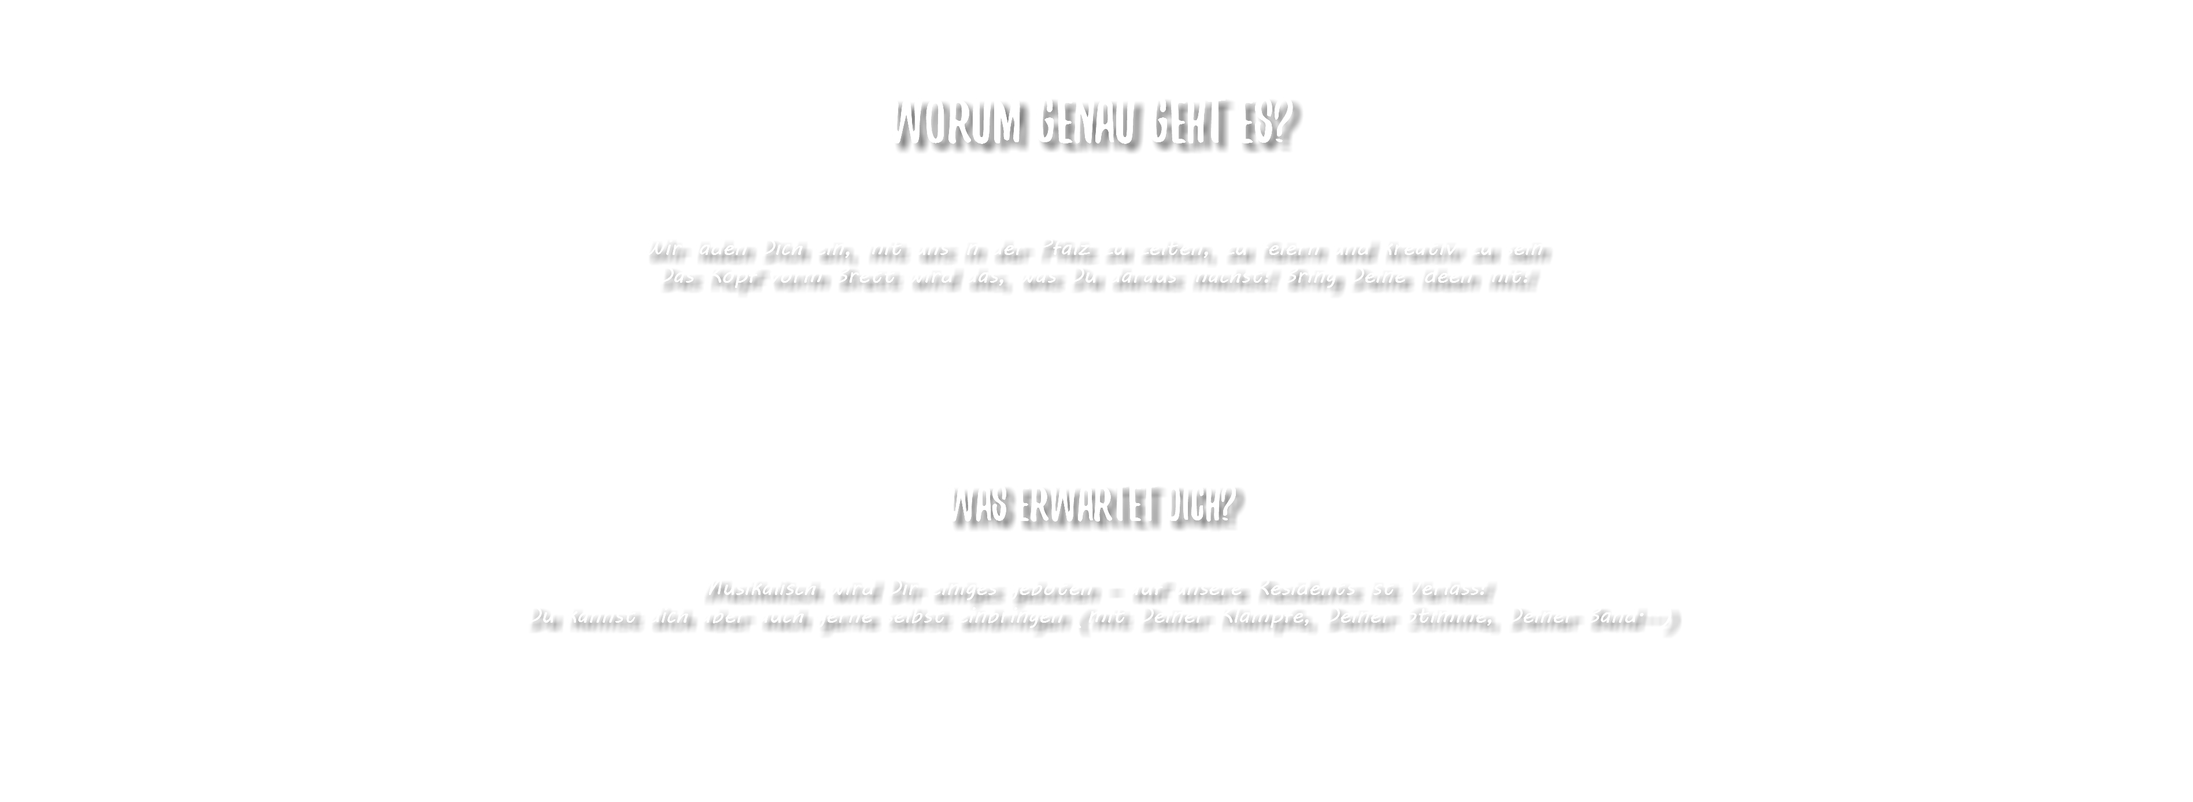
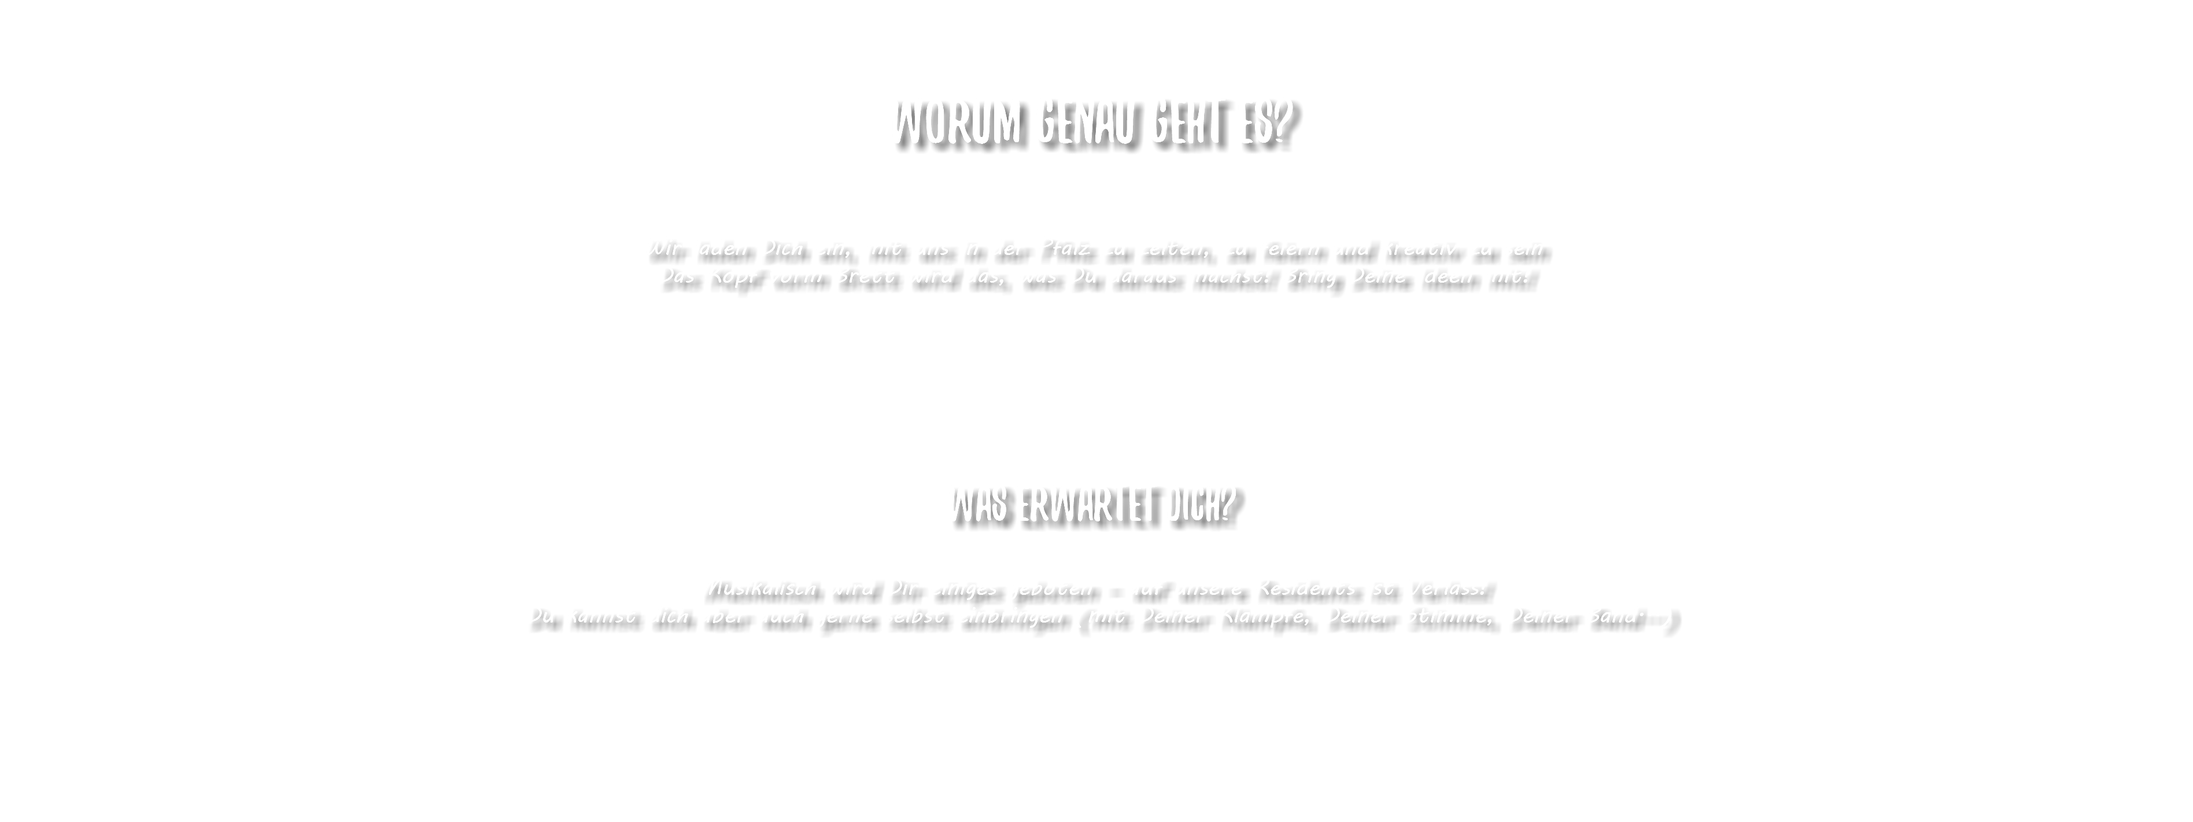
dsa
dsa

diff --git a/css/index.css b/css/index.css
@@ -1,1 +1,1 @@
-.version.index{color:#0000E3;background-color:#F7DBE0;}#page{min-height:8172px;border-width:0px;padding-bottom:1px;border-color:#000000;background-color:transparent;margin-right:auto;z-index:1;background-image:none;margin-left:auto;}#pu815{margin-right:-10000px;width:0.01px;z-index:6;height:0px;}#u815{z-index:6;position:fixed;width:1890px;background-color:transparent;top:3653px;}#u102{min-height:3004px;border-width:0px;border-color:transparent;position:fixed;width:1890px;z-index:8;background-color:transparent;}#u825{z-index:10;position:fixed;width:1890px;background-color:transparent;top:3601px;}#u353{min-height:598px;border-width:0px;border-color:transparent;top:3760px;position:fixed;width:1890px;z-index:12;background-color:transparent;}#u792{top:4217px;padding-bottom:24px;border-color:transparent;background-color:transparent;position:fixed;width:178px;border-width:0px;z-index:13;}#u765{left:107px;-webkit-transform:matrix(0.9613,0.2756,-0.2756,0.9613,8,-8);transform:matrix(0.9613,0.2756,-0.2756,0.9613,8,-8);margin-top:8px;position:relative;margin-right:-10000px;width:65px;z-index:14;-ms-transform:matrix(0.9613,0.2756,-0.2756,0.9613,8,-8);}#u775{left:62px;-webkit-transform:matrix(0.9613,0.2756,-0.2756,0.9613,14,-14);transform:matrix(0.9613,0.2756,-0.2756,0.9613,14,-14);margin-top:29px;position:relative;margin-right:-10000px;width:112px;z-index:16;-ms-transform:matrix(0.9613,0.2756,-0.2756,0.9613,14,-14);}#u782{left:16px;-webkit-transform:matrix(0.8746,0.4848,-0.4848,0.8746,36,-29);transform:matrix(0.8746,0.4848,-0.4848,0.8746,36,-29);margin-top:72px;position:relative;margin-right:-10000px;width:149px;z-index:18;-ms-transform:matrix(0.8746,0.4848,-0.4848,0.8746,36,-29);}#u441{min-height:242px;border-width:0px;border-color:transparent;top:4863px;position:fixed;width:800px;z-index:24;background-color:transparent;}#u571{display:block;z-index:104;position:fixed;top:4871px;vertical-align:top;}#u590{display:block;z-index:106;position:fixed;top:4871px;vertical-align:top;}#ppu287{margin-right:-10000px;width:0.01px;z-index:0;}#pu287{width:0.01px;z-index:9;}#u287{background-color:#000000;position:relative;margin-right:-10000px;width:1px;z-index:9;height:2041px;}#u106{margin-right:-10000px;width:1890px;background-color:transparent;z-index:20;position:relative;}#u324{background-color:transparent;position:relative;margin-right:-10000px;width:1890px;z-index:22;box-shadow:6px 6px 8px rgba(0,0,0,0.5);}#pu357{width:0.01px;z-index:25;}#u357{z-index:25;margin-top:23px;position:relative;margin-right:-10000px;background-color:transparent;}#u393-20{display:block;position:relative;margin-right:-10000px;vertical-align:top;z-index:27;}#pu872{width:0.01px;z-index:4;}#u872{z-index:4;margin-top:1446px;position:relative;margin-right:-10000px;width:1890px;background-color:transparent;}#u872_img{margin-top:-471px;margin-bottom:-380px;}#u478{background-color:transparent;position:relative;margin-right:-10000px;width:1890px;z-index:47;box-shadow:6px 6px 8px rgba(0,0,0,0.5);}#u493-21{display:block;margin-top:108px;position:relative;margin-right:-10000px;vertical-align:top;z-index:49;}#u496-26{display:block;margin-top:591px;position:relative;margin-right:-10000px;vertical-align:top;z-index:70;}#u499{-webkit-transform:matrix(0.9903,0.1392,-0.1392,0.9903,20,-15);transform:matrix(0.9903,0.1392,-0.1392,0.9903,20,-15);margin-top:1044px;position:relative;margin-right:-10000px;width:229px;z-index:96;-ms-transform:matrix(0.9903,0.1392,-0.1392,0.9903,20,-15);}#u521{-webkit-transform:matrix(0.9903,-0.1392,0.1392,0.9903,-18,21);transform:matrix(0.9903,-0.1392,0.1392,0.9903,-18,21);margin-top:1165px;position:relative;margin-right:-10000px;width:287px;z-index:98;-ms-transform:matrix(0.9903,-0.1392,0.1392,0.9903,-18,21);}#u543{-webkit-transform:matrix(0.9945,0.1045,-0.1045,0.9945,33,-52);transform:matrix(0.9945,0.1045,-0.1045,0.9945,33,-52);margin-top:1149px;position:relative;margin-right:-10000px;width:1030px;z-index:100;-ms-transform:matrix(0.9945,0.1045,-0.1045,0.9945,33,-52);}#u557{-webkit-transform:matrix(0.9986,-0.0523,0.0523,0.9986,-15,27);transform:matrix(0.9986,-0.0523,0.0523,0.9986,-15,27);margin-top:1407px;position:relative;margin-right:-10000px;width:1029px;z-index:102;-ms-transform:matrix(0.9986,-0.0523,0.0523,0.9986,-15,27);}#u765_img,#u775_img,#u782_img,#u499_img,#u521_img,#u543_img,#u557_img{vertical-align:top;display:block;}.js #u441.ose_pre_init,.js #u571.ose_pre_init,.js #u590.ose_pre_init,.js #u499.ose_pre_init,.js #u521.ose_pre_init,.js #u543.ose_pre_init,.js #u557.ose_pre_init{opacity:0;-ms-filter:"progid:DXImageTransform.Microsoft.Alpha(Opacity=0)";filter:alpha(opacity=0);}#u638{z-index:108;margin-top:1947px;position:relative;margin-right:-10000px;width:1890px;background-color:transparent;}#u638 img.shadow{box-shadow:6px 6px 8px rgba(0,0,0,0.5);}#u638_img{margin-top:30px;margin-bottom:-1px;}#u731-62{display:block;margin-top:2009px;position:relative;margin-right:-10000px;vertical-align:top;z-index:110;}.css_verticalspacer .verticalspacer{height:calc(100vh - 8645px);}#pu907{margin-right:-10000px;width:0.01px;z-index:2;margin-top:-59px;}#u907{background-color:transparent;position:relative;margin-right:-10000px;width:1890px;z-index:2;box-shadow:6px 6px 8px rgba(0,0,0,0.5);}#u926{background-color:transparent;position:relative;margin-right:-10000px;width:1890px;z-index:172;box-shadow:6px 6px 8px rgba(0,0,0,0.5);}.html{background-color:#000000;}body{position:relative;}.verticalspacer{min-height:1px;}@media (min-width: 1891px), print{#muse_css_mq{background-color:#FFFFFF;}#bp_infinity.active{display:block;}#pu815{padding-bottom:7758px;margin-top:-1271px;}#u102{top:-1271px;left:0px;}#u815,#u825,#u353{left:0px;}#u792{left:1659px;}#u441{left:555px;}#u571{left:339px;}#u590{left:1371px;}#ppu287{margin-top:1123px;}#u287{margin-top:192px;left:5px;}#u324{margin-top:2478px;}#pu357{margin-top:441px;}#page,#u357{width:1890px;}#u393-20{margin-bottom:-6px;}#pu872{margin-top:289px;}#u499{left:1239px;}#u521{left:500px;}#u543{left:684px;}#u557{left:277px;}body{min-width:1890px;}}@media (max-width: 1890px){#muse_css_mq{background-color:#000762;}#bp_1890.active{display:block;}#page{width:1420px;}#pu815{padding-bottom:7761px;margin-top:-1274px;}#u102{top:-1274px;left:-220px;}#u815,#u825,#u353{left:-220px;}#u792{left:1434px;}#u441{left:330px;}#u571{left:114px;}#u590{left:1146px;}#ppu287{padding-bottom:0px;margin-top:1120px;margin-left:-220px;}#u287{margin-top:195px;}#u324{margin-top:2481px;}#pu357{margin-top:442px;}#u357{width:1900px;}#u393-20{margin-bottom:-2px;}#pu872{margin-top:284px;}#u499{left:1234px;}#u521{left:495px;}#u543{left:679px;}#u557{left:272px;}#pu907{margin-left:-220px;}body{overflow-x:hidden;min-width:1420px;}}
+.version.index{color:#00001B;background-color:#F4F3CB;}#page{min-height:8172px;border-width:0px;padding-bottom:1px;border-color:#000000;background-color:transparent;margin-right:auto;z-index:1;background-image:none;margin-left:auto;}#pu815{margin-right:-10000px;width:0.01px;z-index:6;height:0px;}#u815{z-index:6;position:fixed;width:1890px;background-color:transparent;top:3653px;}#u102{min-height:3004px;border-width:0px;border-color:transparent;position:fixed;width:1890px;z-index:8;background-color:transparent;}#u825{z-index:10;position:fixed;width:1890px;background-color:transparent;top:3601px;}#u353{min-height:598px;border-width:0px;border-color:transparent;top:3760px;position:fixed;width:1890px;z-index:12;background-color:transparent;}#u792{top:4217px;padding-bottom:24px;border-color:transparent;background-color:transparent;position:fixed;width:178px;border-width:0px;z-index:13;}#u765{left:107px;-webkit-transform:matrix(0.9613,0.2756,-0.2756,0.9613,8,-8);transform:matrix(0.9613,0.2756,-0.2756,0.9613,8,-8);margin-top:8px;position:relative;margin-right:-10000px;width:65px;z-index:14;-ms-transform:matrix(0.9613,0.2756,-0.2756,0.9613,8,-8);}#u775{left:62px;-webkit-transform:matrix(0.9613,0.2756,-0.2756,0.9613,14,-14);transform:matrix(0.9613,0.2756,-0.2756,0.9613,14,-14);margin-top:29px;position:relative;margin-right:-10000px;width:112px;z-index:16;-ms-transform:matrix(0.9613,0.2756,-0.2756,0.9613,14,-14);}#u782{left:16px;-webkit-transform:matrix(0.8746,0.4848,-0.4848,0.8746,36,-29);transform:matrix(0.8746,0.4848,-0.4848,0.8746,36,-29);margin-top:72px;position:relative;margin-right:-10000px;width:149px;z-index:18;-ms-transform:matrix(0.8746,0.4848,-0.4848,0.8746,36,-29);}#u441{min-height:242px;border-width:0px;border-color:transparent;top:4863px;position:fixed;width:800px;z-index:24;background-color:transparent;}#u571{display:block;z-index:104;position:fixed;top:4871px;vertical-align:top;}#u590{display:block;z-index:106;position:fixed;top:4871px;vertical-align:top;}#ppu287{margin-right:-10000px;width:0.01px;padding-bottom:0px;z-index:0;}#pu287{width:0.01px;z-index:9;}#u287{background-color:#000000;position:relative;margin-right:-10000px;width:1px;z-index:9;height:2041px;}#u106{margin-right:-10000px;width:1890px;background-color:transparent;z-index:20;position:relative;}#u324{z-index:22;position:relative;margin-right:-10000px;width:1890px;background-color:transparent;}#pu357{width:0.01px;z-index:25;}#u357{z-index:25;margin-top:23px;position:relative;margin-right:-10000px;background-color:transparent;}#u393-20{display:block;position:relative;margin-right:-10000px;vertical-align:top;z-index:27;}#pu872{width:0.01px;z-index:4;}#u872{z-index:4;position:relative;margin-right:-10000px;width:1890px;background-color:transparent;}#u872_img{margin-top:-471px;margin-bottom:-380px;}#u478{background-color:transparent;position:relative;margin-right:-10000px;width:1890px;z-index:47;box-shadow:6px 6px 8px rgba(0,0,0,0.5);}#u493-21{display:block;position:relative;margin-right:-10000px;vertical-align:top;z-index:49;}#u496-26{display:block;position:relative;margin-right:-10000px;vertical-align:top;z-index:70;}#u499{-webkit-transform:matrix(0.9903,0.1392,-0.1392,0.9903,20,-15);transform:matrix(0.9903,0.1392,-0.1392,0.9903,20,-15);position:relative;margin-right:-10000px;width:229px;z-index:96;-ms-transform:matrix(0.9903,0.1392,-0.1392,0.9903,20,-15);}#u521{-webkit-transform:matrix(0.9903,-0.1392,0.1392,0.9903,-18,21);transform:matrix(0.9903,-0.1392,0.1392,0.9903,-18,21);position:relative;margin-right:-10000px;width:287px;z-index:98;-ms-transform:matrix(0.9903,-0.1392,0.1392,0.9903,-18,21);}#u543{-webkit-transform:matrix(0.9945,0.1045,-0.1045,0.9945,33,-52);transform:matrix(0.9945,0.1045,-0.1045,0.9945,33,-52);position:relative;margin-right:-10000px;width:1030px;z-index:100;-ms-transform:matrix(0.9945,0.1045,-0.1045,0.9945,33,-52);}#u557{-webkit-transform:matrix(0.9986,-0.0523,0.0523,0.9986,-15,27);transform:matrix(0.9986,-0.0523,0.0523,0.9986,-15,27);position:relative;margin-right:-10000px;width:1029px;z-index:102;-ms-transform:matrix(0.9986,-0.0523,0.0523,0.9986,-15,27);}#u765_img,#u775_img,#u782_img,#u499_img,#u521_img,#u543_img,#u557_img{vertical-align:top;display:block;}.js #u441.ose_pre_init,.js #u571.ose_pre_init,.js #u590.ose_pre_init,.js #u499.ose_pre_init,.js #u521.ose_pre_init,.js #u543.ose_pre_init,.js #u557.ose_pre_init{opacity:0;-ms-filter:"progid:DXImageTransform.Microsoft.Alpha(Opacity=0)";filter:alpha(opacity=0);}#u638{z-index:108;position:relative;margin-right:-10000px;width:1890px;background-color:transparent;}#u638 img.shadow{box-shadow:6px 6px 8px rgba(0,0,0,0.5);}#u638_img{margin-top:30px;margin-bottom:-1px;}#u731-62{display:block;position:relative;margin-right:-10000px;vertical-align:top;z-index:110;}.css_verticalspacer .verticalspacer{height:calc(100vh - 8645px);}#pu907{margin-right:-10000px;width:0.01px;z-index:2;margin-top:-59px;}#u907{background-color:transparent;position:relative;margin-right:-10000px;width:1890px;z-index:2;box-shadow:6px 6px 8px rgba(0,0,0,0.5);}#u926{background-color:transparent;position:relative;margin-right:-10000px;width:1890px;z-index:172;box-shadow:6px 6px 8px rgba(0,0,0,0.5);}.html{background-color:#000000;}body{position:relative;}.verticalspacer{min-height:1px;}@media (min-width: 1891px), print{#muse_css_mq{background-color:#FFFFFF;}#bp_infinity.active{display:block;}#pu815{padding-bottom:7758px;margin-top:-1271px;}#u102{top:-1271px;left:0px;}#u815,#u825,#u353{left:0px;}#u792{left:1659px;}#u441{left:555px;}#u571{left:339px;}#u590{left:1371px;}#ppu287{margin-top:1123px;}#u287{margin-top:192px;left:5px;}#u324{margin-top:2478px;}#u324 img.shadow{box-shadow:6px 6px 8px rgba(0,0,0,0.5);}#u324_img{margin-bottom:74px;}#pu357{margin-top:345px;}#page,#u357{width:1890px;}#u393-20{margin-bottom:-6px;}#pu872{margin-top:248px;}#u872{margin-top:1468px;}#u493-21{margin-top:130px;}#u496-26{margin-top:613px;}#u499{margin-top:1066px;left:1239px;}#u521{margin-top:1187px;left:500px;}#u543{margin-top:1171px;left:684px;}#u557{margin-top:1429px;left:277px;}#u638{margin-top:1969px;}#u731-62{margin-top:2031px;}body{min-width:1890px;}}@media (max-width: 1890px){#muse_css_mq{background-color:#000762;}#bp_1890.active{display:block;}#page{width:1420px;}#pu815{padding-bottom:7761px;margin-top:-1274px;}#u102{top:-1274px;left:-220px;}#u815,#u825,#u353{left:-220px;}#u792{left:1434px;}#u441{left:330px;}#u571{left:114px;}#u590{left:1146px;}#ppu287{margin-top:1120px;margin-left:-220px;}#u287{margin-top:195px;}#u324{box-shadow:6px 6px 8px rgba(0,0,0,0.5);margin-top:2481px;}#pu357{margin-top:442px;}#u357{width:1900px;}#u393-20{margin-bottom:-2px;}#pu872{margin-top:284px;}#u872{margin-top:1446px;}#u493-21{margin-top:108px;}#u496-26{margin-top:591px;}#u499{margin-top:1044px;left:1234px;}#u521{margin-top:1165px;left:495px;}#u543{margin-top:1149px;left:679px;}#u557{margin-top:1407px;left:272px;}#u638{margin-top:1947px;}#u731-62{margin-top:2009px;}#pu907{margin-left:-220px;}body{overflow-x:hidden;min-width:1420px;}}

diff --git a/index.html b/index.html
@@ -17,10 +17,10 @@ if(typeof Muse == "undefined") window.Muse = {}; window.Muse.assets = {"required
   <title>Homepage</title>
   <!-- CSS -->
   <link rel="stylesheet" type="text/css" href="css/site_global.css?crc=444006867"/>
-  <link rel="stylesheet" type="text/css" href="css/index.css?crc=3824671712" id="pagesheet"/>
+  <link rel="stylesheet" type="text/css" href="css/index.css?crc=469038027" id="pagesheet"/>
   <!-- IE-only CSS -->
   <!--[if lt IE 9]>
-  <link rel="stylesheet" type="text/css" href="css/nomq_index.css?crc=3972777190" id="nomq_pagesheet"/>
+  <link rel="stylesheet" type="text/css" href="css/nomq_index.css?crc=414818516" id="nomq_pagesheet"/>
   <![endif]-->
    </head>
  <body>
@@ -58,27 +58,27 @@ if(typeof Muse == "undefined") window.Muse = {}; window.Muse.assets = {"required
      <img class="mse_pre_init ose_pre_init temp_no_img_src" id="u590" alt="" width="206" height="291" data-orig-src="images/r5_300dpi2-u590.png?crc=3911401174" data-hidpi-src="images/r5_300dpi2-u590_2x.png?crc=526168891" src="images/blank.gif?crc=4208392903"/><!-- rasterized frame -->
     </div>
     <div class="clearfix grpelem" id="ppu287"><!-- column -->
-     <div class="clearfix colelem shared_content" id="pu287" data-content-guid="pu287_content"><!-- group -->
-      <div class="grpelem" id="u287"><!-- simple frame --></div>
-      <div class="clip_frame grpelem" id="u106"><!-- image -->
+     <div class="clearfix colelem" id="pu287"><!-- group -->
+      <div class="grpelem shared_content" id="u287" data-content-guid="u287_content"><!-- simple frame --></div>
+      <div class="clip_frame grpelem shared_content" id="u106" data-content-guid="u106_content"><!-- image -->
        <img class="block temp_no_img_src" id="u106_img" data-orig-src="images/bretter_together_muse_oben.png?crc=53165442" alt="" width="1890" height="2490" src="images/blank.gif?crc=4208392903"/>
       </div>
-      <div class="shadow clip_frame grpelem" id="u324"><!-- image -->
-       <img class="block temp_no_img_src" id="u324_img" data-orig-src="images/kvb_sschwarz_unten2.jpg?crc=3931746478" alt="" width="1890" height="138" src="images/blank.gif?crc=4208392903"/>
+      <div class="shadow clearfix grpelem" id="u324"><!-- image -->
+       <img class="shadow position_content temp_no_img_src" id="u324_img" data-orig-src="images/kvb_sschwarz_unten2.jpg?crc=3931746478" alt="" width="1890" height="160" src="images/blank.gif?crc=4208392903"/>
       </div>
      </div>
      <div class="clearfix colelem" id="pu357"><!-- group -->
       <div class="clip_frame grpelem" id="u357"><!-- image -->
        <img class="block temp_no_img_src" id="u357_img" data-orig-src="images/kvb_sschwarz_unten3-crop-u357.png?crc=201152101" alt="" width="1890" height="665" src="images/blank.gif?crc=4208392903"/>
       </div>
-      <img class="grpelem temp_no_img_src" id="u393-20" alt="&nbsp;Worum genau geht es? Wir laden Dich ein, mit uns in der Pfalz zu zelten, zu feiern und kreativ zu sein Das Kopf vorm Brett wird das, was Du daraus machst! Bring Deine Ideen mit! Was erwartet Dich? Musikalisch wird Dir einiges geboten – auf unsere Residents ist Verlass! Du kannst dich aber auch gerne selbst einbringen (mit Deiner Klampfe, Deiner Stimme, Deiner Band...) " width="1896" height="693" data-orig-src="images/u393-20.png?crc=200293073" data-hidpi-src="images/u393-20_2x.png?crc=3781974559" src="images/blank.gif?crc=4208392903"/><!-- rasterized frame -->
+      <img class="grpelem temp_no_img_src" id="u393-20" alt="&nbsp;Worum genau geht es? Wir laden Dich ein, mit uns in der Pfalz zu zelten, zu feiern und kreativ zu sein Das Kopf vorm Brett wird das, was Du daraus machst! Bring Deine Ideen mit! Was erwartet Dich? Musikalisch wird Dir einiges geboten – auf unsere Residents ist Verlass! Du kannst dich aber auch gerne selbst einbringen (mit Deiner Klampfe, Deiner Stimme, Deiner Band...) " width="1896" height="711" data-orig-src="images/u393-20.png?crc=3864693295" data-hidpi-src="images/u393-20_2x.png?crc=4252916231" src="images/blank.gif?crc=4208392903"/><!-- rasterized frame -->
      </div>
      <div class="clearfix colelem" id="pu872"><!-- group -->
       <div class="clip_frame clearfix grpelem shared_content" id="u872" data-content-guid="u872_content"><!-- image -->
        <img class="position_content temp_no_img_src" id="u872_img" data-orig-src="images/dream_h7xcsvmmx7m.jpg?crc=4286759864" alt="" width="1890" height="2834" src="images/blank.gif?crc=4208392903"/>
       </div>
       <div class="shadow clip_frame grpelem" id="u478"><!-- image -->
-       <img class="block temp_no_img_src" id="u478_img" data-orig-src="images/kvb_sschwarz_unten3-crop-u478.png?crc=3859000677" alt="" width="1890" height="1695" src="images/blank.gif?crc=4208392903"/>
+       <img class="block temp_no_img_src" id="u478_img" data-orig-src="images/kvb_sschwarz_unten3-crop-u478.png?crc=4176792411" alt="" width="1890" height="1718" src="images/blank.gif?crc=4208392903"/>
       </div>
       <img class="grpelem temp_no_img_src" id="u493-21" alt="Ausserdem wird einiges an Baumaterial vorhanden sein, das wir im Vorfeld fleissig gesammelt haben Wir werden zusammen eine Gemeinschaftsküche, Toiletten und Duschen bauen Dich erwartet eine Grundausstattung an Infrastruktur: Eine Musikanlage, eine Bühne, eine Strom- und Wasserversorgung und eine Kühlgelegenheit für Getränke Wir kochen jeden Tag für alle eine vegetarische Mahlzeit und es wird täglich ein grosses Frühstück geben Das Essen ist im Teilnehmerbeitrag mit inbegriffen! Für die Fleischesser kooperieren wir mit einem lokalen Metzger von wir Fleisch- und Wurstwaren zum Selbstkostenpreis anbieten Du kannst bei uns (ebenfalls zum Selbstkostenpreis) Bier, Wein und Limo erwerben Schnaps haben wir leider nicht. Tee, Kaffee und Wasser sind im Teilnehmerbeitrag enthalten" width="1890" height="387" data-orig-src="images/u493-21.png?crc=4121840378" data-hidpi-src="images/u493-21_2x.png?crc=4017368820" src="images/blank.gif?crc=4208392903"/><!-- rasterized frame -->
       <img class="grpelem temp_no_img_src" id="u496-26" alt="Ist das Kopf vorm Brett ein Festival? Das Kopf vorm Brett ist in erster Linie das, was DU daraus machst! Bring Dich ein und gestalte mit uns das Kopf vorm Brett! Was muss ich zuhause lassen? Schlechte Laune Haustiere Camping-Kocher Individual-Lautsprecher" width="1890" height="1085" data-orig-src="images/u496-26.png?crc=3923874967" data-hidpi-src="images/u496-26_2x.png?crc=299621675" src="images/blank.gif?crc=4208392903"/><!-- rasterized frame -->
@@ -134,7 +134,13 @@ if(typeof Muse == "undefined") window.Muse = {}; window.Muse.assets = {"required
      <img class="mse_pre_init ose_pre_init temp_no_id temp_no_img_src" alt="" width="206" height="291" data-orig-src="images/r5_300dpi2-u5902.png?crc=3911401174" data-hidpi-src="images/r5_300dpi2-u590_2x2.png?crc=526168891" data-orig-id="u590" src="images/blank.gif?crc=4208392903"/><!-- rasterized frame -->
     </div>
     <div class="clearfix grpelem temp_no_id" data-orig-id="ppu287"><!-- column -->
-     <span class="clearfix colelem placeholder" data-placeholder-for="pu287_content"><!-- placeholder node --></span>
+     <div class="clearfix colelem temp_no_id" data-orig-id="pu287"><!-- group -->
+      <span class="grpelem placeholder" data-placeholder-for="u287_content"><!-- placeholder node --></span>
+      <span class="clip_frame grpelem placeholder" data-placeholder-for="u106_content"><!-- placeholder node --></span>
+      <div class="shadow clip_frame grpelem temp_no_id" data-orig-id="u324"><!-- image -->
+       <img class="block temp_no_id temp_no_img_src" data-orig-src="images/kvb_sschwarz_unten2.jpg?crc=3931746478" alt="" width="1890" height="138" data-orig-id="u324_img" src="images/blank.gif?crc=4208392903"/>
+      </div>
+     </div>
      <div class="clearfix colelem temp_no_id" data-orig-id="pu357"><!-- group -->
       <div class="clip_frame grpelem temp_no_id" data-orig-id="u357"><!-- image -->
        <img class="block temp_no_id temp_no_img_src" data-orig-src="images/kvb_sschwarz_unten3-crop-u3572.png?crc=4089583458" alt="" width="1901" height="668" data-orig-id="u357_img" src="images/blank.gif?crc=4208392903"/>

diff --git a/css/nomq_index.css b/css/nomq_index.css
@@ -1,1 +1,1 @@
-#muse_css_mq{background-color:#FFFFFF;}#bp_infinity.active{display:block;}#pu815{padding-bottom:7758px;margin-top:-1271px;}#u102{top:-1271px;left:0px;}#u815,#u825,#u353{left:0px;}#u792{left:1659px;}#u441{left:555px;}#u571{left:339px;}#u590{left:1371px;}#ppu287{margin-top:1123px;}#u287{margin-top:192px;left:5px;}#u324{margin-top:2478px;}#pu357{margin-top:441px;}#page,#u357{width:1890px;}#u393-20{margin-bottom:-6px;}#pu872{margin-top:289px;}#u499{left:1239px;}#u521{left:500px;}#u543{left:684px;}#u557{left:277px;}body{min-width:1890px;}
+#muse_css_mq{background-color:#FFFFFF;}#bp_infinity.active{display:block;}#pu815{padding-bottom:7758px;margin-top:-1271px;}#u102{top:-1271px;left:0px;}#u815,#u825,#u353{left:0px;}#u792{left:1659px;}#u441{left:555px;}#u571{left:339px;}#u590{left:1371px;}#ppu287{margin-top:1123px;}#u287{margin-top:192px;left:5px;}#u324{margin-top:2478px;}#u324 img.shadow{box-shadow:6px 6px 8px rgba(0,0,0,0.5);}#u324_img{margin-bottom:74px;}#pu357{margin-top:345px;}#page,#u357{width:1890px;}#u393-20{margin-bottom:-6px;}#pu872{margin-top:248px;}#u872{margin-top:1468px;}#u493-21{margin-top:130px;}#u496-26{margin-top:613px;}#u499{margin-top:1066px;left:1239px;}#u521{margin-top:1187px;left:500px;}#u543{margin-top:1171px;left:684px;}#u557{margin-top:1429px;left:277px;}#u638{margin-top:1969px;}#u731-62{margin-top:2031px;}body{min-width:1890px;}
